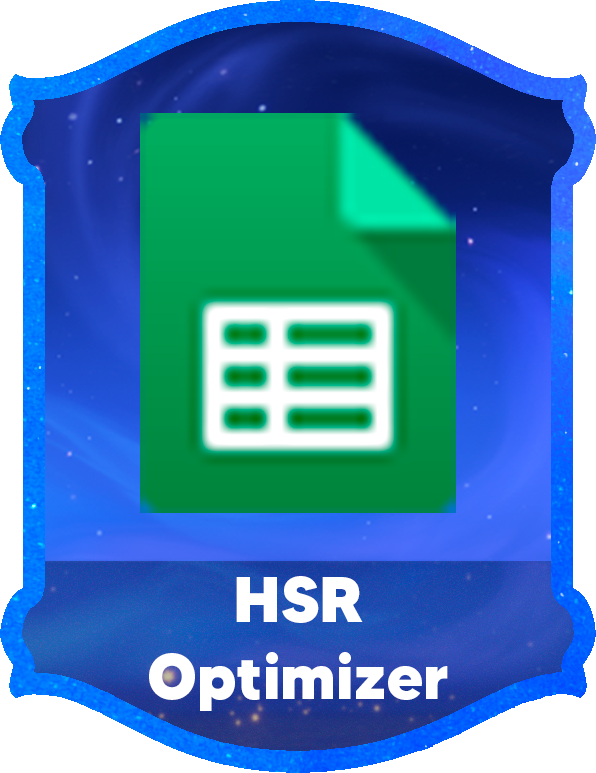
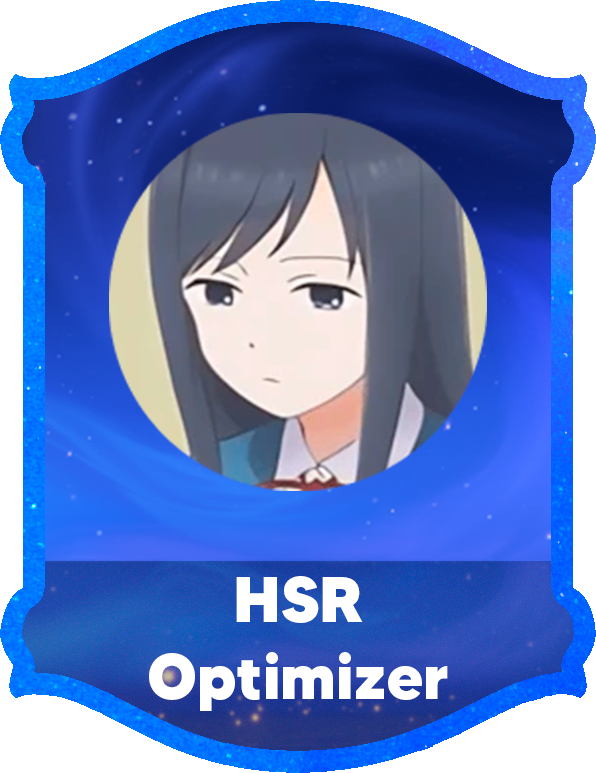
update files

Changed region(s): [[0.1812, 0.1242, 0.8154, 0.6831]]

diff --git a/main.js b/main.js
@@ -4,6 +4,7 @@ const { ElectronBlocker } = require("@ghostery/adblocker-electron");
 const fetch = require("cross-fetch");
 const { autoUpdater } = require("electron-updater");
 const fs = require("fs");
+const { Client } = require('discord-rpc');
 
 const settingsPath = path.join(app.getPath("userData"), "settings.json");
 
@@ -360,3 +361,30 @@ app.whenReady().then(async () => {
 });
 
 app.commandLine.appendSwitch("ignore-certificate-errors", "true");
+
+const clientId = 'id do seu cliente';
+
+const rpc = new Client({ transport: 'ipc' });
+
+rpc.on('ready', () => {
+    console.log('Rich Presence conectado ao Discord!');
+    rpc.setActivity({
+        details: 'Explorando o HoYo Nexus',
+        startTimestamp: Date.now(),
+        largeImageKey: 'icone_grande',
+        largeImageText: 'HoYo Nexus',
+        smallImageKey: 'icone_pequeno',
+        smallImageText: 'Atualizando...',
+        instance: false,
+        buttons: [
+            {
+                label: 'Download',
+                url: 'https://github.com/zAeonDev/HOYO-NEXUS?tab=readme-ov-file#download'
+            }
+        ]
+    }).then(() => {
+        console.log('Rich Presence configurado com sucesso!');
+    }).catch(console.error);
+});
+
+rpc.login({ clientId }).catch(console.error);

diff --git a/src/html/patch-note.html b/src/html/patch-note.html
@@ -27,8 +27,7 @@
                 <article class="patch-notes-content">
                     <h2 id="version-number">Carregando versão...</h2>
                     <ul class="update-list">
-                        <li><i class="fas fa-check"></i>Design do Aplicativo <br>Correções e aprimoramentos</br></li>
-                        <li><i class="fas fa-check"></i>Configurações <br>Ás configurações foram implementadas!</br> </li>
+                        <li><i class="fas fa-check"></i>Rich Presence <br>Agora o Discord irá exibir o aplicativo como uma atividade no Discord!</br></li>
                         <li><i class="fas fa-check"></i>Adicionado um novo site para a aba do Honkai: Star Rail</li>
                     </ul>
                     <button class="back-button" onclick="window.history.back()">

diff --git a/src/html/honkai-star-rail.html b/src/html/honkai-star-rail.html
@@ -71,7 +71,7 @@
                 <a class="link-button" onclick="redirecionar('https://www.reddit.com/r/HonkaiStarRail_leaks/')">
                     <img src="../images/Reddit.png" alt="Honkai Leaks">
                 </a>
-                <a class="link-button" onclick="redirecionar('https://docs.google.com/spreadsheets/d/e/2PACX-1vRsm60jYo8MdHWimjvY42wE8-j-0NBwG9-KutpNcQbylhhBiKBpGmUm1x3CXExthl2EB438RdMWdeT3/pubhtml?gid=1012178313')">
+                <a class="link-button" onclick="redirecionar('https://fribbels.github.io/hsr-optimizer')">
                     <img src="../images/HSR Optimizer.png" alt="Honkai Optimizer">
                 </a>
             </div>
